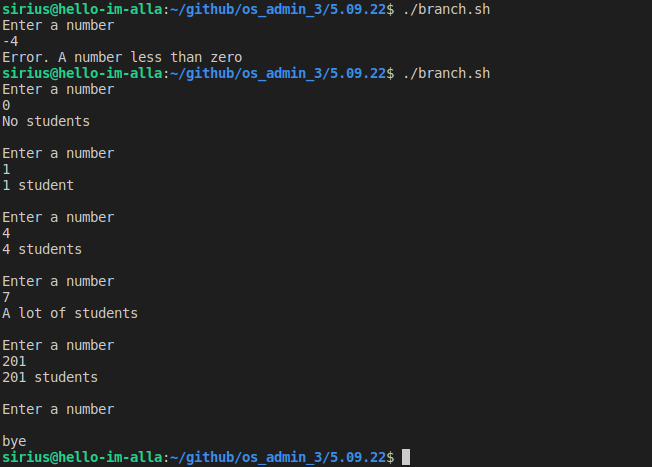
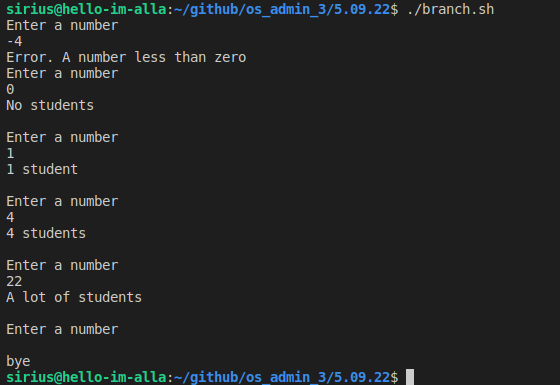
05.09 hw

Changed region(s): [[0.0, 0.0, 0.8804, 1.0]]

diff --git a/5.09.22/README.md b/5.09.22/README.md
@@ -48,7 +48,7 @@ while true ; do
     case $number in
         0) echo -e "No students\n" ;;
         1) echo -e "1 student\n" ;;
-        [2-4]*) echo -e "$number students\n" ;;
+        [2-4]) echo -e "$number students\n" ;;
         *) echo -e "A lot of students\n"
     esac
 
